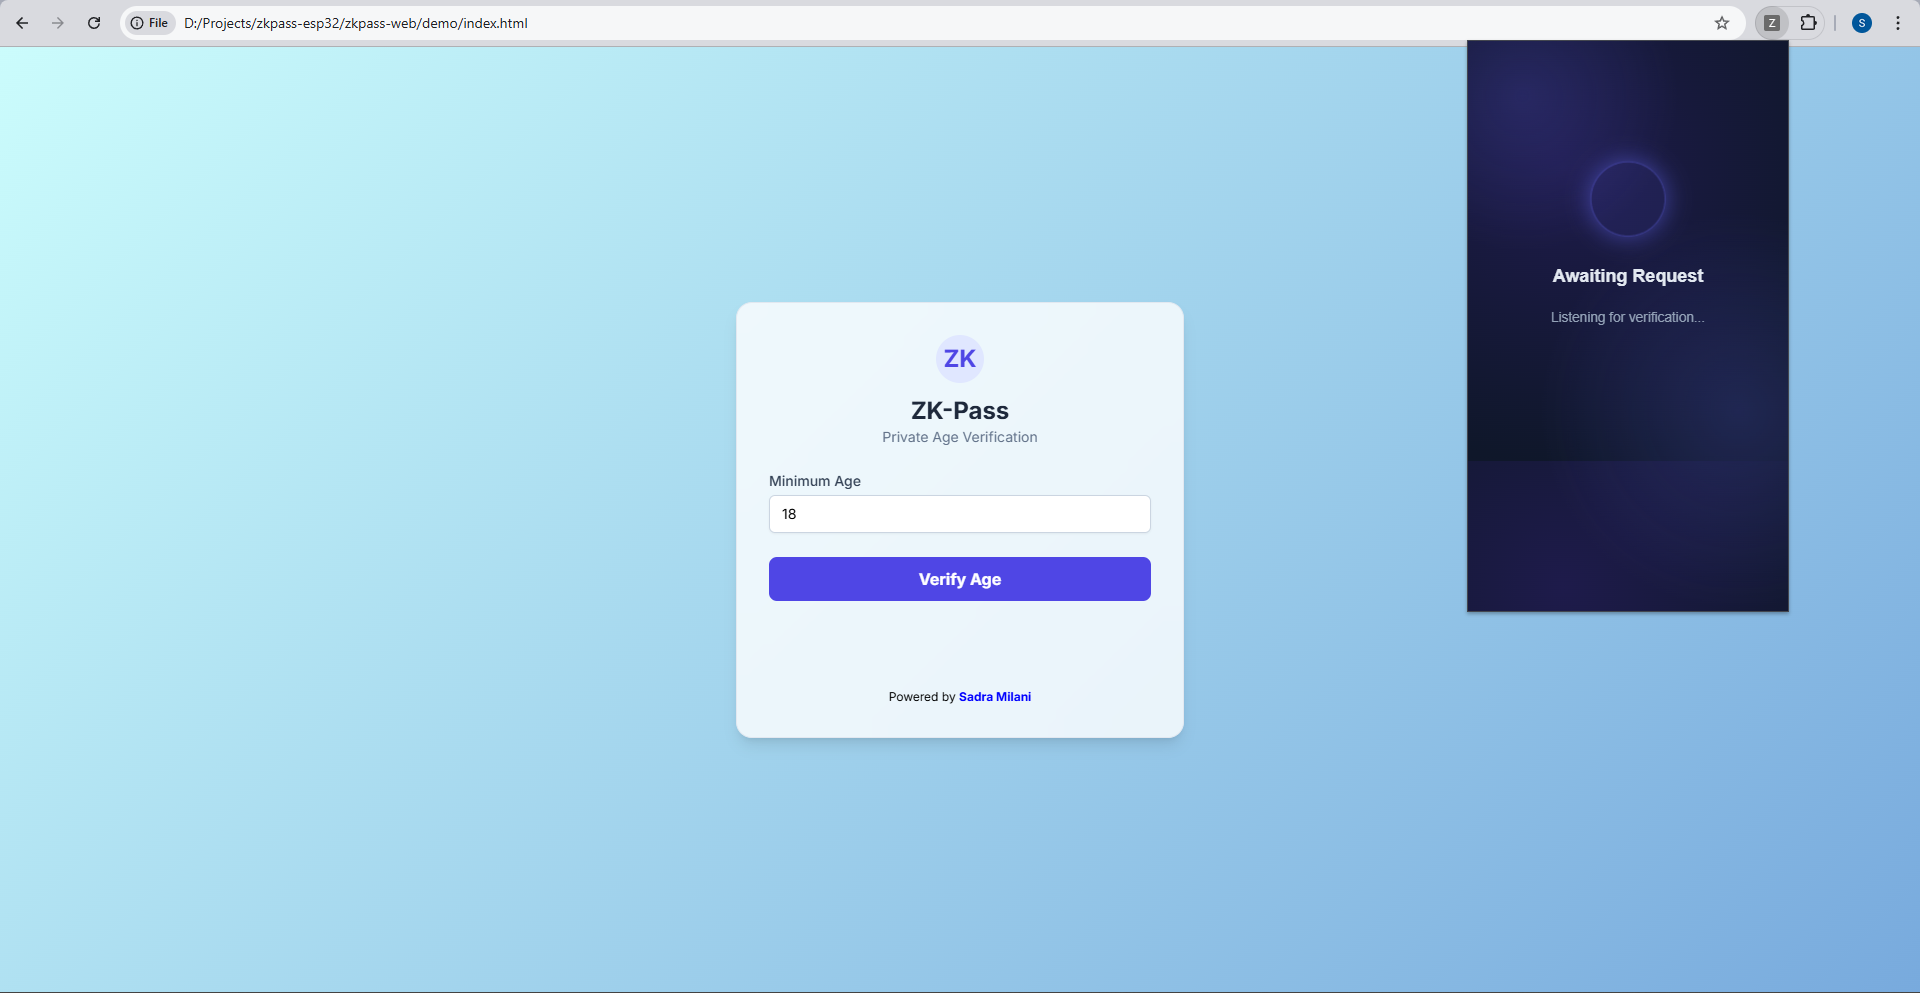
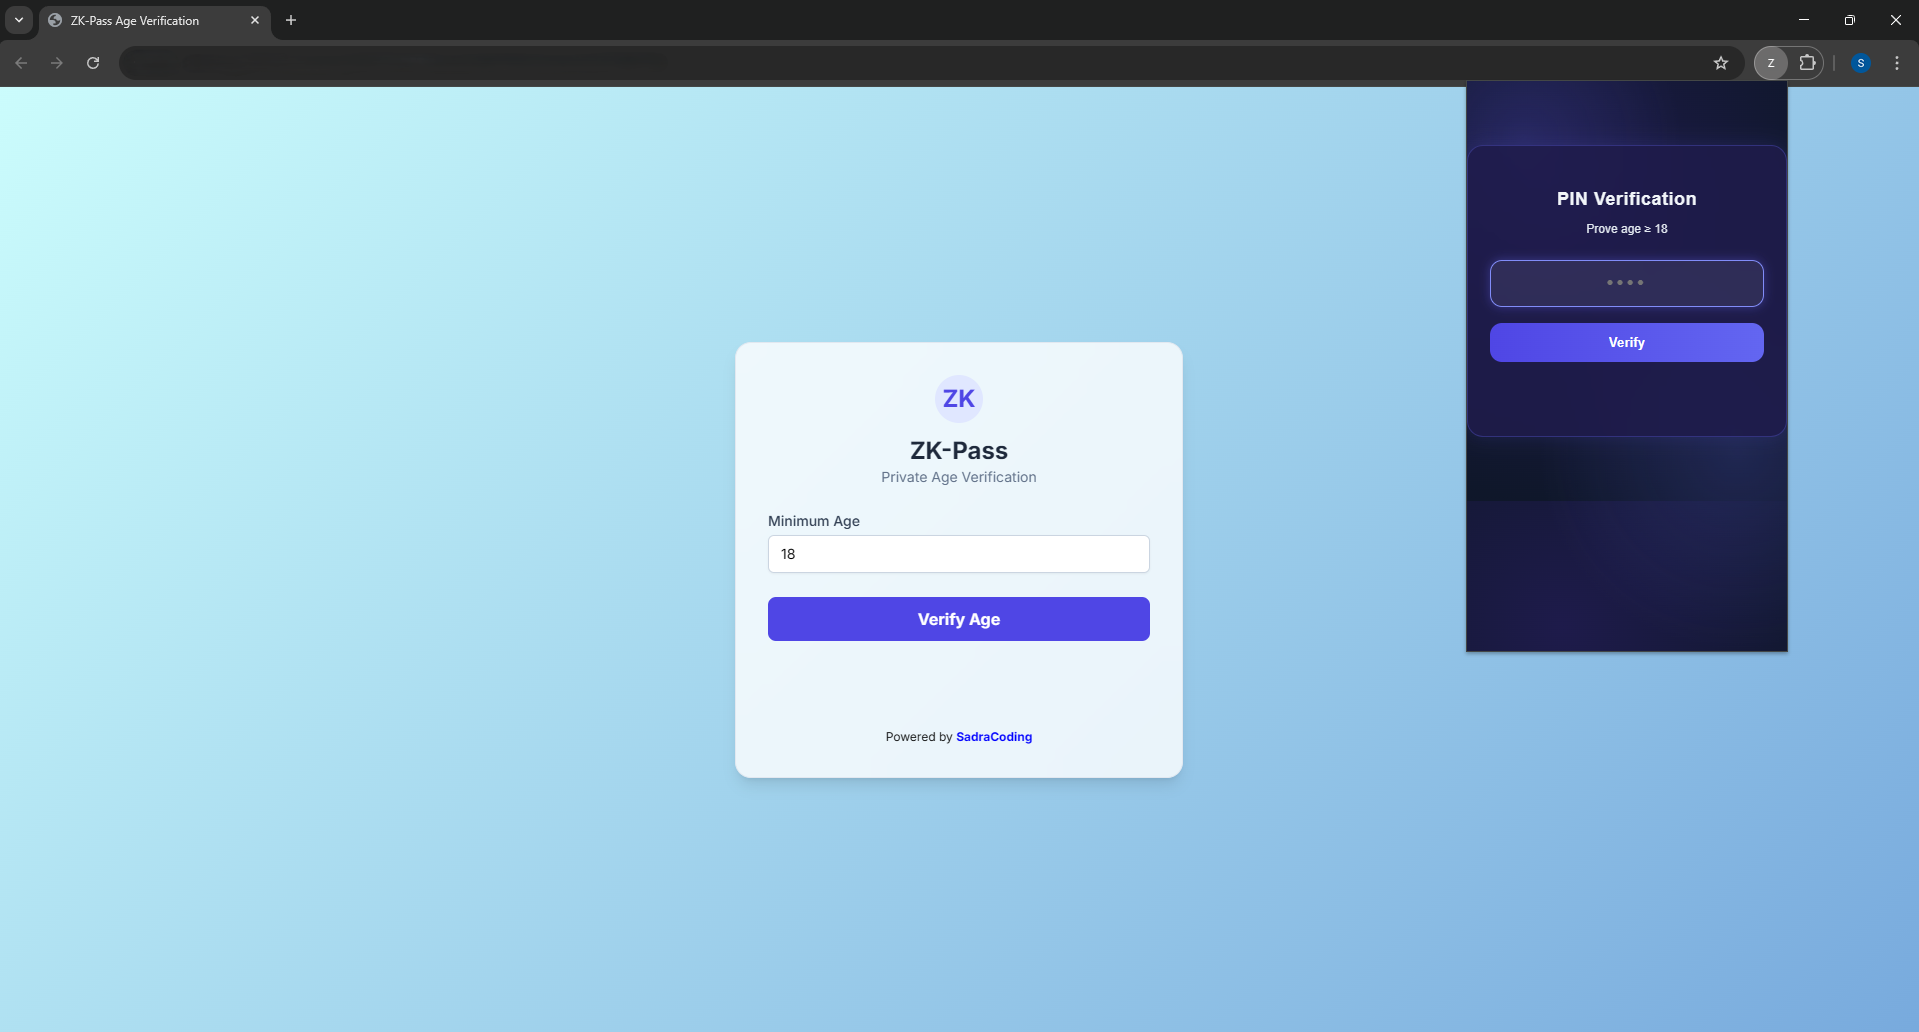
Update

diff --git a/zkpass-web/demo/index.html b/zkpass-web/demo/index.html
@@ -59,7 +59,7 @@
       <!-- Verification result appears here -->
     </div>
 
-    <p style="color: black;" class="text-xs text-slate-400 mt-8">Powered by <a href="https://sadramilani.ir" style="color: blue;font-weight: bold;">Sadra Milani</a></p>
+    <p style="color: black;" class="text-xs text-slate-400 mt-8">Powered by <a href="https://github.com/SadraCoding" style="color: blue;font-weight: bold;">SadraCoding</a></p>
   </div>
 
   <script>

diff --git a/README.md b/README.md
@@ -184,8 +184,8 @@ This design ensures that even if the host computer or network is compromised, yo
 
 ## Author & Contact
 
-Developed with care by **Sadra Milani Moghaddam**.  
-🌐 Learn more at: [https://sadramilani.ir](https://sadramilani.ir)
+Developed with care by **SadraCoding**.  
+🌐 Learn more at: [Github](https://github.com/SadraCoding)
 
 ## License
 
